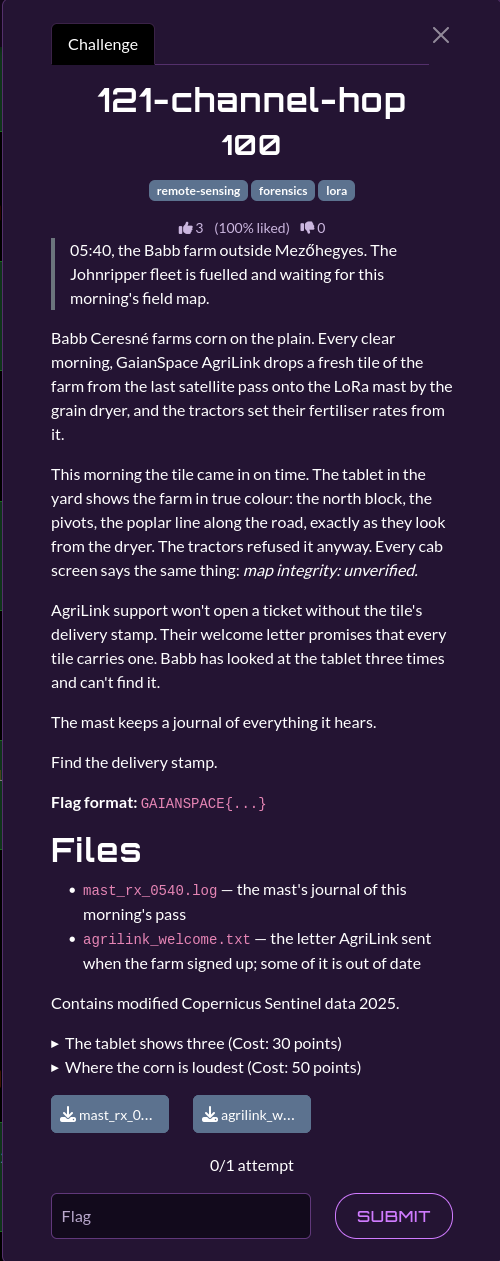
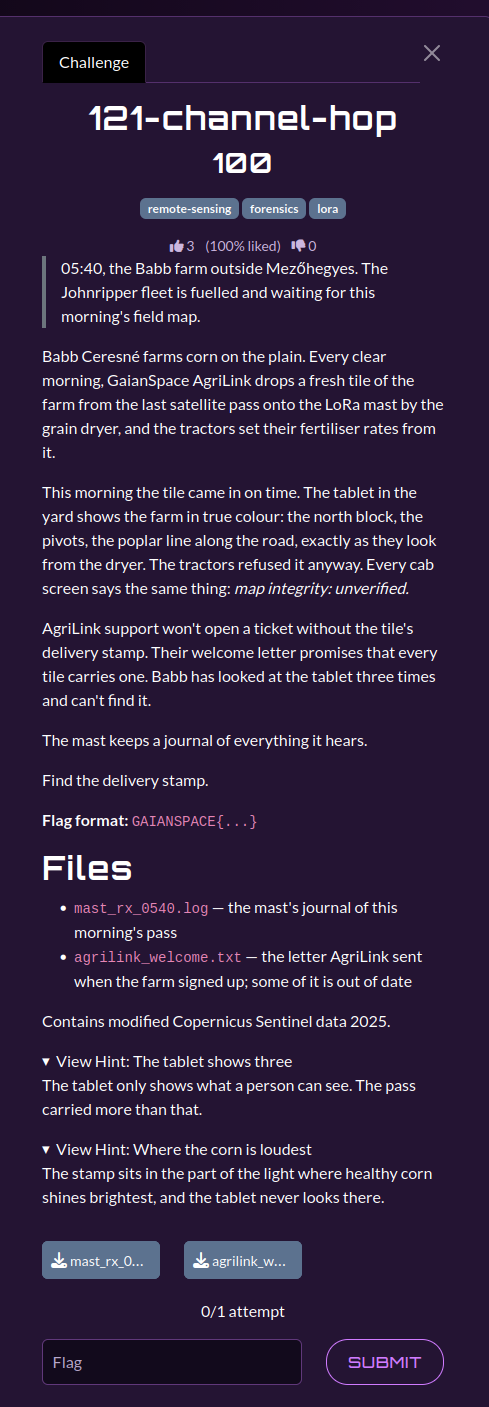
Update README.md

diff --git a/12-spectral-forensics/127-heads-down-97/README.md b/12-spectral-forensics/127-heads-down-97/README.md
@@ -29,6 +29,13 @@ Before the sprayers leave the yard at dusk, Dr. Rica wants two answers: which fi
 
 Contains modified Copernicus Sentinel data 2025.
 
+## Hints
+
+Two hints were released during the event:
+
+1. **Hint 1** — Hint 1. Two transmitters, one channel, one setting, and the stranger has learned to tune. A whole chirp bin is far too coarse a ruler to tell them apart. Once you have two voices, ask which one you have heard before, and whose clock wanders.
+2. **Hint 2** — Hint 2. Every speckled field is built from two kinds of pixel, in every channel you look at one by one. Ask whether that is still true when you look at all five channels together.
+
 ## Solution
 
 ### 1. Two transmissions, not one

diff --git a/12-spectral-forensics/126-borrowed-summer/README.md b/12-spectral-forensics/126-borrowed-summer/README.md
@@ -28,6 +28,13 @@ The flag is their delivery IDs from the mast journal, in the order the mast rece
 
 Contains modified Copernicus Sentinel data 2023 and 2024.
 
+## Hints
+
+Two hints were released during the event:
+
+1. **Hint 1** — No way back. After midsummer a field on the plain only goes one way. It ripens, it dries, it gets cut. It doesn't turn back into a young green crop a fortnight later.
+2. **Hint 2** — Genuine is not the same as true. AgriLink checked that every product is real. Nobody checked that the pixels came from that product.
+
 ## Solution
 
 ### 1. Decode the original tiles

diff --git a/12-spectral-forensics/124-subsidy-claim/README.md b/12-spectral-forensics/124-subsidy-claim/README.md
@@ -31,6 +31,13 @@ The flag is the stranger's claim codes for the false declarations, in the order 
 
 Contains modified Copernicus Sentinel data 2025.
 
+## Hints
+
+Two hints were released during the event:
+
+1. **Greener is better** — The office's classifier does more than name a class. It can also say how sure it is, and a parcel it is sure about tells you more than one it shrugs at.
+2. **The field nobody walked** — A classifier that never met a class can't recognise it. The office kept the field. It only threw away what it learned there.
+
 ## Solution
 
 ### Steps

diff --git a/12-spectral-forensics/125-where-they-stood/README.md b/12-spectral-forensics/125-where-they-stood/README.md
@@ -27,6 +27,13 @@ Find the parcel the stranger transmitted from.
 
 Contains modified Copernicus Sentinel data 2025.
 
+## Hints
+
+Two hints were released during the event:
+
+1. **Hint 1** — Four clocks. Three gateways always agree on some point. The fourth one is the check, and the sheet is not the only record of where a gateway stands.
+2. **Hint 2** — The long way round. The dryer stands behind a row of poplars. Not everything it heard came straight from the transmitter.
+
 ## Solution
 
 ### 1. Isolate the transmitted batch

diff --git a/12-spectral-forensics/123-isodata-seven/README.md b/12-spectral-forensics/123-isodata-seven/README.md
@@ -28,6 +28,13 @@ Find what the stranger planted in the tractors' tile.
 
 Contains modified Copernicus Sentinel data 2025.
 
+## Hints
+
+Two hints were released during the event:
+
+1. **No band gives it away** — Look at any one channel of the stranger's tile, or at any picture made from the usual three, and the patch is only noise. That was the point.
+2. **As many as the course** — Babb's course always asked the tile for a fixed number of kinds of ground. The stranger counted on nobody asking.
+
 ## Solution
 
 ### Steps

diff --git a/12-spectral-forensics/122-true-color-is-a-lie/README.md b/12-spectral-forensics/122-true-color-is-a-lie/README.md
@@ -28,6 +28,13 @@ Find out what AgriLink really sent.
 
 Contains modified Copernicus Sentinel data 2025.
 
+## Hints
+
+Two hints were released during the event:
+
+1. **Same song, two throats** — Every word in this pass that matters was said twice, and the two speakers are not quite in tune with each other.
+2. **The field knows its colours** — Water, bare soil and green leaves each answer the light their own way. Order the channels by what the farm shows you, not by what the file says.
+
 ## Solution
 
 ### Steps

diff --git a/12-spectral-forensics/121-channel-hop/README.md b/12-spectral-forensics/121-channel-hop/README.md
@@ -28,6 +28,13 @@ Find the delivery stamp.
 
 Contains modified Copernicus Sentinel data 2025.
 
+## Hints
+
+Two hints were released during the event:
+
+1. **The tablet shows three** — The tablet only shows what a person can see. The pass carried more than that.
+2. **Where the corn is loudest** — The stamp sits in the part of the light where healthy corn shines brightest, and the tablet never looks there.
+
 ## Solution
 
 ### Steps
